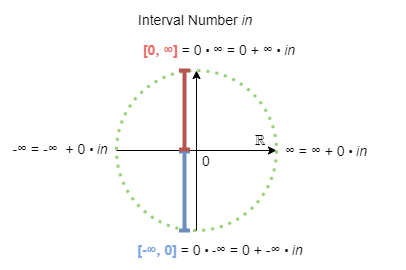
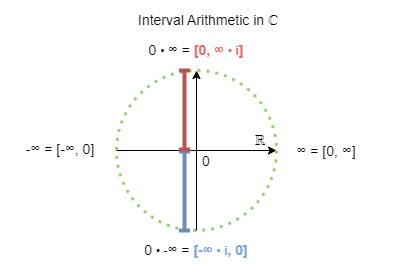
Switching to complex numbers.

diff --git a/test/src/main.cpp b/test/src/main.cpp
@@ -3,7 +3,7 @@
 
 #include <gtest/gtest.h>
 
-#include "IntervalNumber.hpp"
+#include "IntervalArithmetic.hpp"
 
 // Basic tests for the C++ implementation
 
@@ -35,9 +35,9 @@ TEST(Basics, InfinityMinusInfinity)
     EXPECT_EQ(true, std::isnan(result));
 }
 
-// Tests for IntervalNumber implementation
+// Tests for IntervalArithmetic implementation
 
-TEST(IntervalNumber, ConstructorStandard01)
+TEST(IntervalArithmetic, ConstructorStandard01)
 {
     IntervalNumber result;
 
@@ -45,7 +45,7 @@ TEST(IntervalNumber, ConstructorStandard01)
     EXPECT_EQ(result.getB(), 0.0);
 }
 
-TEST(IntervalNumber, ConstructorStandard02)
+TEST(IntervalArithmetic, ConstructorStandard02)
 {
     // Creating the [1, 10] interval number
     IntervalNumber result{1.0, 9.0};
@@ -54,7 +54,7 @@ TEST(IntervalNumber, ConstructorStandard02)
     EXPECT_EQ(result.getB(), 9.0);
 }
 
-TEST(IntervalNumber, ConstructorZeroInfinity)
+TEST(IntervalArithmetic, ConstructorZeroInfinity)
 {
     // Creating the [0, ∞] interval number
     IntervalNumber result{0.0, INF};
@@ -63,7 +63,7 @@ TEST(IntervalNumber, ConstructorZeroInfinity)
     EXPECT_EQ(result.getB(), INF);
 }
 
-TEST(IntervalNumber, Addition01)
+TEST(IntervalArithmetic, Addition01)
 {
     IntervalNumber a{0.0, 8.0};
     IntervalNumber b{1.0, 4.0};
@@ -74,7 +74,7 @@ TEST(IntervalNumber, Addition01)
     EXPECT_EQ(result.getB(), 7.0);
 }
 
-TEST(IntervalNumber, Addition02)
+TEST(IntervalArithmetic, Addition02)
 {
     IntervalNumber a{0.0, INF};
     IntervalNumber b{0.0, INF};
@@ -85,7 +85,7 @@ TEST(IntervalNumber, Addition02)
     EXPECT_EQ(result.getB(), INF);
 }
 
-TEST(IntervalNumber, Multiplication01)
+TEST(IntervalArithmetic, Multiplication01)
 {
     IntervalNumber a{1.0, 2.0};
 
@@ -96,7 +96,7 @@ TEST(IntervalNumber, Multiplication01)
 }
 
 
-TEST(IntervalNumber, Multiplication02)
+TEST(IntervalArithmetic, Multiplication02)
 {
     IntervalNumber a{1.0, INF};
 
@@ -106,7 +106,7 @@ TEST(IntervalNumber, Multiplication02)
     EXPECT_EQ(result.getB(), -INF);
 }
 
-TEST(IntervalNumber, Multiplication03)
+TEST(IntervalArithmetic, Multiplication03)
 {
     IntervalNumber a{0.0, INF};
 
@@ -116,7 +116,7 @@ TEST(IntervalNumber, Multiplication03)
     EXPECT_EQ(result.getB(), -INF);
 }
 
-TEST(IntervalNumber, Multiplication04)
+TEST(IntervalArithmetic, Multiplication04)
 {
     IntervalNumber a{0.0, INF};
     IntervalNumber b{0.0, INF};
@@ -127,7 +127,7 @@ TEST(IntervalNumber, Multiplication04)
     EXPECT_EQ(result.getB(), INF);
 }
 
-TEST(IntervalNumber, Multiplication05)
+TEST(IntervalArithmetic, Multiplication05)
 {
     IntervalNumber a{-INF, 0.0};
     IntervalNumber b{INF, 0.0};
@@ -138,7 +138,7 @@ TEST(IntervalNumber, Multiplication05)
     EXPECT_EQ(result.getB(), 0.0);
 }
 
-TEST(IntervalNumber, CheckNaN01)
+TEST(IntervalArithmetic, CheckNaN01)
 {
     IntervalNumber result{0.0, QUIET_NAN};
 
@@ -146,7 +146,7 @@ TEST(IntervalNumber, CheckNaN01)
     EXPECT_EQ(true, std::isnan(result.getB()));
 }
 
-TEST(IntervalNumber, CheckNaN02)
+TEST(IntervalArithmetic, CheckNaN02)
 {
     IntervalNumber result{QUIET_NAN, 0.0};
 

diff --git a/test/src/ComplexNumber.hpp b/test/src/ComplexNumber.hpp
@@ -1,0 +1,90 @@
+#ifndef COMPLEXNUMBER_HPP_
+#define COMPLEXNUMBER_HPP_
+
+class ComplexNumber {
+
+private:
+
+    double m_a{0.0};
+    double m_b{0.0};
+
+public:
+
+    ComplexNumber() noexcept :
+        m_a{0.0}, m_b{0.0}
+    {
+    }
+
+    ComplexNumber(double a) noexcept :
+        m_a{a}, m_b{0.0}
+    {
+    }
+
+    ComplexNumber(double a, double b) noexcept :
+        m_a{a}, m_b{b}
+    {
+    }
+
+    double getA() const noexcept
+    {
+        return m_a;
+    }
+
+    void setA(double a) noexcept
+    {
+        m_a = a;
+    }
+
+    double getB() const noexcept
+    {
+        return m_b;
+    }
+
+    void setB(double b)
+    {
+        m_b = b;
+    }
+
+    bool operator==(const ComplexNumber& other) const noexcept
+    {
+        return (getA() == other.getA()) && (getB() == other.getB());
+    }
+
+    bool operator!=(const ComplexNumber& other) const noexcept
+    {
+        return (getA() != other.getA()) || (getB() != other.getB());
+    }
+
+    ComplexNumber operator+(const ComplexNumber& other) const noexcept
+    {
+        return ComplexNumber(getA() + other.getA(), getB() + other.getB());
+    }
+
+    ComplexNumber operator+(double x) const noexcept
+    {
+        return *this + ComplexNumber(x, 0.0);
+    }
+
+    ComplexNumber operator*(const ComplexNumber& other) const noexcept
+    {
+        return ComplexNumber(getA() * other.getA() - getB() * other.getB(), getA() * other.getB() - getB() * other.getA());
+    }
+
+    ComplexNumber operator*(double x) const noexcept
+    {
+        return *this * ComplexNumber(x);
+    }
+
+};
+
+ComplexNumber operator+(double x, const ComplexNumber& other) noexcept
+{
+    return ComplexNumber(x) + other;
+}
+
+ComplexNumber operator*(double x, const ComplexNumber& other) noexcept
+{
+    return ComplexNumber(x) * other;
+}
+
+#endif /* COMPLEXNUMBER_HPP_ */

diff --git a/test/src/IntervalArithmetic.hpp b/test/src/IntervalArithmetic.hpp
@@ -1,5 +1,5 @@
-#ifndef INTERVALNUMBER_HPP_
-#define INTERVALNUMBER_HPP_
+#ifndef INTERVALARITHMETIC_HPP_
+#define INTERVALARITHMETIC_HPP_
 
 #include <algorithm>
 #include <cmath>
@@ -154,4 +154,4 @@ IntervalNumber operator*(double x, const IntervalNumber& other) noexcept
     return IntervalNumber(x) * other;
 }
 
-#endif /* INTERVALNUMBER_HPP_ */
+#endif /* INTERVALARITHMETIC_HPP_ */

diff --git a/README.md b/README.md
@@ -1,4 +1,4 @@
-# Solving indeterminate forms using interval arithmetic
+# Solving indeterminate forms using interval arithmetic with complex numbers
 
 *by Norbert Nopper*
 
@@ -20,52 +20,22 @@ $0 \times ∞ = -1 \times (0 \times -∞)$
 ### Inspiration
 
 *ToDo:*  
-*Explain shortly for complex numbers [2]*  
+*Explain complex numbers [2] in short.*  
 ![](illustrations/visual_complex_number.png)  
 
 In interval arithmetic, the intervals `[0, ∞]` and `[-∞, 0]` are allowed [3].
 
-The indeterminate form of `0 x ∞` can be expressed as the interval `[0, ∞]`.  
-Similar, the indeterminate form of `0 x -∞` is `[-∞, 0]`.
-
-The idea is to calculate the two interval bounds for not indeterminate forms.
-
-I.  
-`0 x ∞ = [0, ∞]`:
-
-Replacing second multiplier with 0:  
-`0 x 0 = 0`  
-Replacing first multiplier with 1:  
-`1 x ∞ = ∞`
-
-II.  
-`0 x -∞ = [-∞, 0]`:
-
-Replacing second multiplier with 0:  
-`0 x 0 = 0`  
-Replacing first multiplier with 1:  
-`1 x -∞ = -∞`
+The indeterminate form of `0 x ∞` can be expressed with complex numbers as the interval `[0 + 0 x i, 0 + ∞ x i]`.  
+Similar, the indeterminate form of `0 x -∞` is `[0 + -∞ x i, 0 + 0 x i]`.
 
 *ToDo:*  
-*New illustraion*  
+*Explain illustraion and so on*  
 ![](illustrations/visual_interval_number.png)  
 
 ### Deduction
 
 *ToDo:*  
 *Explain `-1 x (0 x -∞)` => `0 x ∞`.* 
-
-```
-// Given interval [x1, x2] using interval arithmetic
-//
-// a + b*in
-//
-// where a = x1
-// where b = x2 - x1
-// where in is the new integral number (similar as i in complex numbers)
-//
-// a + b*in = (a + b) - b*in
-```
 
 ### Interval arithmetic operators
 
